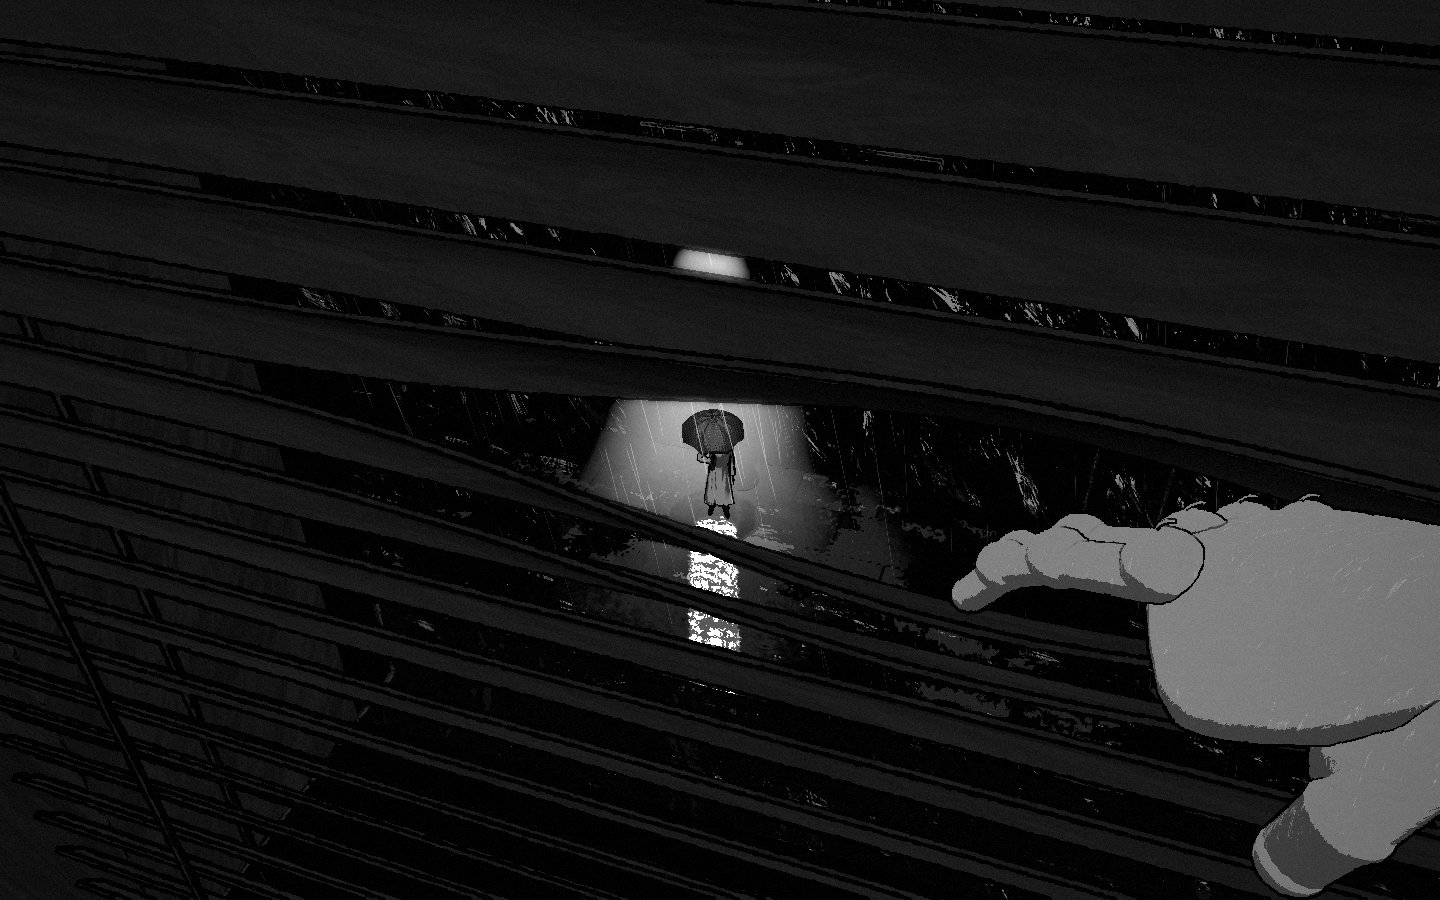
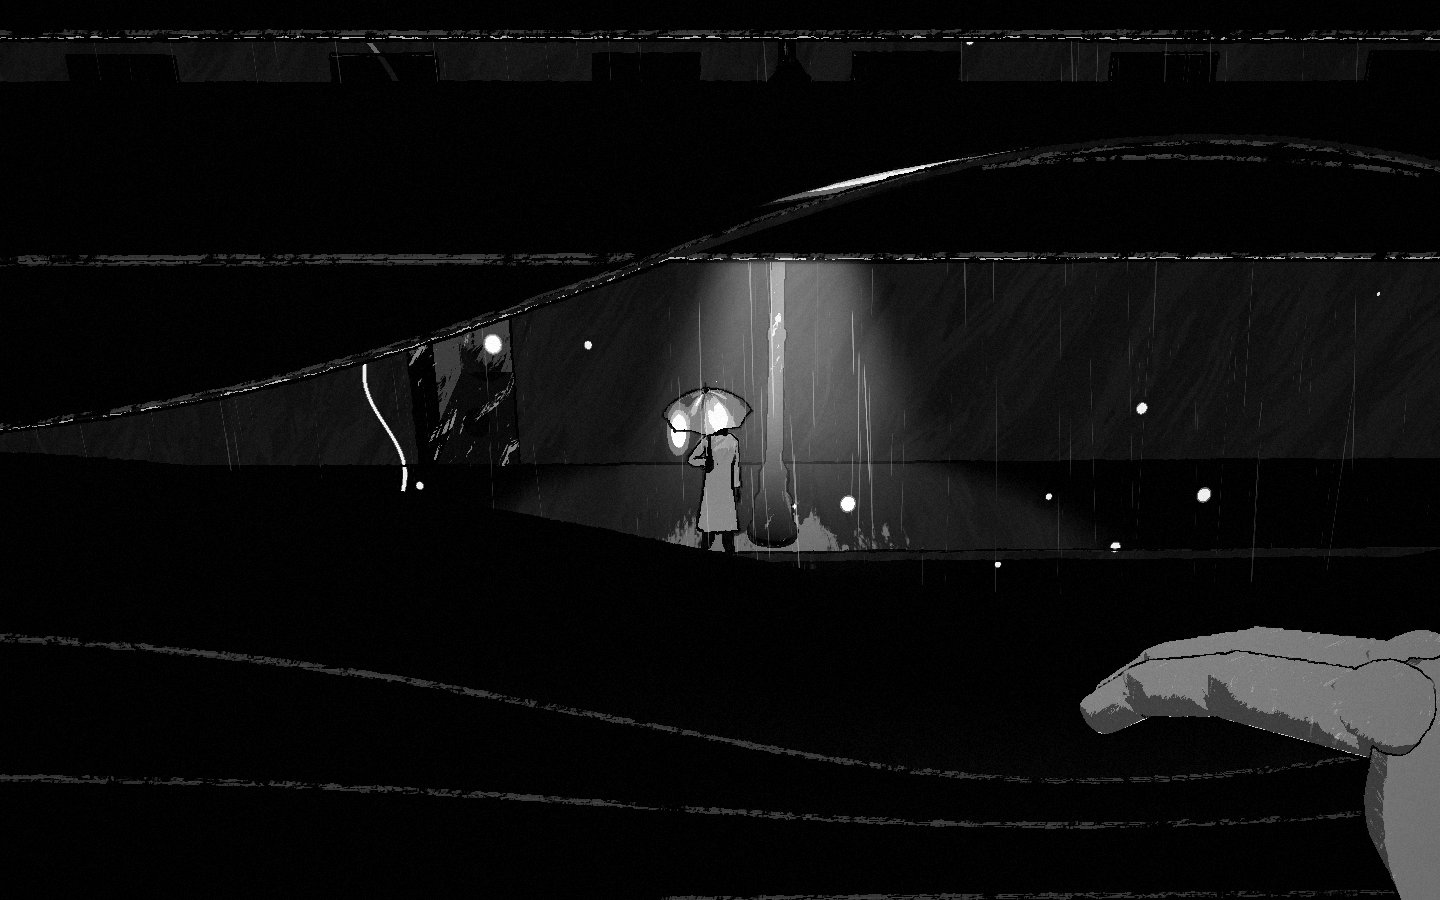
R2-C watcher: the round 2 report and the refreshed review frames (the slit in the office, out under the sash, the washing at night and his shadow on it, my coupe at the kerb, the two office strips)

diff --git a/docs/story/reports/wave-b/B4.md b/docs/story/reports/wave-b/B4.md
@@ -238,3 +238,177 @@ frames at three quarters, JPEG 85):
   hands to the rail, over, gone; `s4_the_car_pulls_away.jpg` 0.8-6.4 s: the
   lamps on, out from the kerb, away down the street, the look drawn after
   it and back to my car.
+
+---------------------------------------------------------------------------
+
+# Round 2 (lane R2-C, branch `wave-b/R2-watcher` on `089632f`)
+
+The brief: `docs/story/briefs/R2_ROUND2.md` R2-C. Not pushed, not merged.
+
+## The lost second pass
+
+`B4_second_pass_uncommitted.patch` applied whole and committed as it was
+saved (`855abf2`), then judged by play and frames: all three of its changes
+are kept.
+- **Out through the window bent under its raised sash**, both palms on the
+  sill (the escape mode's `duck` segment, `plan.js` ESC_RAIL[1]). It is now
+  the second half of the way out of B2's office (below).
+- **My car's door handle** and a hand closed over it (`clips/watcher.js`
+  `DOOR.out`, the `OVER` grip): kept, on the coupe now (below).
+- **The draw of the look on the car beat lets go** at the first turn of the
+  mouse: kept.
+
+## What changed, as a player feels it
+
+1. **The slit in the real office** (`seen`). Before: the eye stood 0.5 m
+   from B2's blind looking at shut slats, two slats "parted" as whole 1.7 m
+   strips a few cm apart, nothing seen through them (round 1's frame `01`
+   was the stand-in); and the man under the lamp stood at the third floor's
+   height over the road (the office stage has no walking surface in its
+   street: a figure's feet went to y 0). Now the office is entered in the
+   beat's setup (the first frame after the card is it; a cold start finds
+   the room as the gunfight left it: the desk over, the door in), the street
+   under the window is a surface (`officeStreet`, outside the building's
+   face only), and two fingers part B2's own blind: while they do, three of
+   its slats are drawn by bendable copies (same material, ink id, place and
+   tilt; B2's instances hidden by its own `set(i, { gone })` and given back
+   after), with the stand-in blind's API, so the hand's clip and the beat's
+   script are the same code for both blinds (`src/scenes/watcher/office.js`).
+   The slit is between two ladder tapes; the eye leans to it on the line to
+   him (0.32 m off it, the lens to 38 degrees). He looks up from under his
+   lamp and umbrella, starts, the umbrella goes along the pavement in the
+   wind, and he runs: off the far pavement, over the road at a slant toward
+   me and into the light well's mouth under the fire escape (out of the slit
+   in about 1.3 s; the slats are held till he is). The "look out" prompt
+   waits for the chapter card to go (it printed over it).
+2. **Out of the office** (`seen` -> `escape`). Before: a one-second glide to
+   the escape window, then black and a cut. Now E: the head turns (0.35 s),
+   the body crosses the room round the desk's end (footfalls on the boards),
+   the curtain over the window is swept aside to its far side as I come to
+   it (a swish), I bend to the sill - both palms slapped on it - and go under
+   the raised sash; there the sash's rail and the wall are over the lens,
+   and on that black (0.1 s) the scene cuts to the backlot's same window
+   with the eye still under its sash (the patch's duck, mid-way), the black
+   lifting in 0.3 s as I come up onto the iron. The step out onto the landing
+   goes on by itself (the E began it: escape mode `autoTo`); out on the iron
+   the look is drawn down to him crossing the street below for the alley's
+   mouth, until the mouse or W takes it.
+3. **The washing yard at night.** Before (frame 05 of round 1): a grey
+   courtyard, the brick lit by the sky's ambient and by the flood's wide
+   cone, the sheets mid grey. Now the yard has its own Look (ambient 0.12,
+   exposure 1.05, thin dark fog, some haze; eased in over the corner from the
+   lane), the flood behind the washing is its one light (narrower, harder:
+   angle 0.36, a harder shadow edge for it alone - the pool's soft radius 5
+   kept for every other lamp), the wall lamp at the yard's far end is a
+   glow, not a light, and the sheets are paler cloth: they are the lit
+   shapes, the brick falls into ink round them, the wet ground takes the
+   light under them.
+4. **His shadow on the washing, every time** (B4's open 3). From the second
+   fence to the last line of washing he tires and the sheets are in his
+   face: he lets me close to five or six metres (a burst if I come within
+   3.5), so as I come through one line he is just through the next and his
+   shadow - bowler, a hand on it - is on the lit sheet in front of me (frame
+   05). A retry of the washing starts him 10 m ahead, not 15.
+5. **My car is the tail's car.** Before: one of the block's sedans at the
+   kerb in the dark between two pools, the tail then opening inside a coupe.
+   Now it is lane B5's coupe (`vehicles/models.js` `buildCoupe`, parked
+   dark, a chrome handle on its kerb-side door), under a street lamp of its
+   own (the eye is drawn to it after his tail lamps), and E drive: the hand
+   closes on the handle, the click, and on it the chapter's black while the
+   eye ducks toward the car's side; the tail opens in that car's seat.
+
+## What I measured
+
+- **The plays, by real input.** `tools/plays/watcher.json` from
+  `?start=watcher` (now through the office): **17 of 17 twice in a row**
+  (and once more earlier on `0eda6c6`); it now measures the gap through the
+  washing: 6.2 / 5.8 / 5.6 m and 6.0 / 5.8 / 5.7 m as I come in and with
+  lines 1 and 2 behind me. `watcher_lost.json`: **10 of 10**, twice; one run
+  of three at load 175 lost him a second time at the second fence, not
+  reproduced. Both plays now click BEGIN a second time 6 s after the first:
+  on this machine (load 60-175) a click that lands while the page is busy
+  lets its user activation lapse and the pointer lock is refused ("click
+  again to take the mouse"); three runs stood at the title before that.
+- **Timings** (game time): the slit open 0.6 s after E; he runs 2.45 s after
+  it and is out of the slit 1.3 s later; E the fire escape -> the head turned
+  0.35 s, at the window 0.92 s, palms on the sill ~1.2 s, the cut at ~1.45 s,
+  the black gone 0.3 s later, out on the iron ~0.5 s after that; E drive ->
+  the hand on the handle 0.35 s, the chapter's fade from 0.55 s.
+- **Frames per second**, 1440 x 900, against `shot=perf` run just before and
+  after (load 135, every run flagged BUSY; perf 11.1 and 10.6): the yard 20.5
+  (1.9 x perf), the fire escape 15.9 (1.5 x), the slit in the office 27.6
+  (2.5 x), the car beat with my coupe and its lamp 19.3 (1.8 x).
+- **The gate.** `npm run build` clean. `python3 tools/golden.py check`: 32 of
+  32 IDENTICAL. `tools/errors.sh` clean on `seen`, `escape`, `run`, `car`,
+  and `seen` played through both E's into the backlot. The slice play: 26 of
+  27, twice; the one fail both times is scene 2's fist fight by the
+  autoplayer taking 183 s and 227 s of game time against the check's 160
+  (the machine at load 60-175; nothing of scene 6 is in scenes 1 and 2, and
+  the slice's ending check passes).
+
+## Shared files
+
+None edited. Read-only imports: the office's `plan.js` and `BLIND`
+(`stages/office/build/openings.js`), B5's `buildCoupe` / `COUPE`
+(`vehicles/models.js`). At run time the scene adds a walking surface for the
+office's street (outside the building's face only; the fire escape's and the
+room's surfaces keep their say), swaps three of B2's slats for its bendable
+copies while they are parted, and scales B2's escape-window curtain aside
+while the eye goes through (put back on the black).
+`src/player/clips/watcher.js` (B4's, now among the hand clips lane R2-B
+owns): only the patch's door grip changed - R2-B's reworking of the slat
+fingers will meet it in that file.
+
+## Music
+
+Slot `chase`, cued when his umbrella drops: 2.4 s of card, the prompt, the
+slit - 5 to 8 s into the scene for a first-timer. The scripted play is 50-62
+s from BEGIN to the tail's card; a first-timer: 65 to 80 s (one "Lost him."
+adds about ten).
+
+## Left (most felt first)
+
+1. **The office's first frame is near black**: the blind a step ahead, a
+   few slivers of the street, the lamp across the street two smudges. The
+   room's light is lane R2-A's relight; look at this beat again when it
+   lands (`office.window.street`; my slit is at z 4.46, the eye 0.92 m back
+   from the blind).
+2. **The hands are lane R2-B's**: at the slit a large flat mitten, on the
+   sill two grey palms, on the car's handle a small hand. My code only puts
+   them on the slat, the sill and the handle.
+3. **B2's curtain at the escape window** is a glowing white cloth: it fills
+   half the frame as I come to the window and is swept aside by a scale on
+   its mesh with no hand on it (it reads as a white slab jumping aside); an
+   arm pushing it would be right.
+4. **The glass's rain** (white wavy rivulets) runs through the slit's view
+   of him: the office's window glass (R2-A).
+5. After the cut, the first second on the iron looks east across the alley
+   at the wall before the look is drawn down to him.
+6. **The yard's upper walls** still print dark grey with the ink's white
+   scratches (B4 open 8) and the sky strip is grey; a sheet swung up
+   overhead as I go through prints mid grey. His shadow is crisp only with
+   him within about 2 m behind the sheet; further it is a soft blob.
+7. **My coupe has no door that opens**: the eye ducks toward its side into
+   the black. It is B5's model by import: a change to the coupe (lane R2-D)
+   shows here too.
+8. B4's open 4 (the dead end's way out a slit of street light, the wet
+   prints unseen), 6 (the passage lamps' ovals), 8 (the scratches) are as
+   they were; the length (open 2) is within the brief now (above), with no
+   new stretch.
+9. Review frames 03, 04, 07, 08, 09 and strips s1, s2 are round 1's (those
+   moments did not change); `02_escape_down_the_iron`, `s3_his_vault`,
+   `s4_the_car_pulls_away` and `10_car_the_tail_lamps` were replaced by the
+   frames below.
+
+## Proof (round 2)
+
+`docs/story/review/wave-b/B4/`: `01_seen_the_slit.jpg` (B2's blind parted,
+him under his lamp and umbrella), `02_out_under_the_sash.jpg` (both palms on
+the escape window's sill, the iron outside),
+`05_run_his_shadow_on_the_washing.jpg`, `06_run_through_the_washing.jpg` (a
+line of washing swinging up over me, his shadow on the next),
+`10_car_my_coupe_at_the_kerb.jpg`; `s3_the_slit_in_the_office.jpg`
+(2.55-7.15 s: the hand up, the slit, him, the umbrella goes, his run out of
+the slit, the slats let go), `s4_out_of_the_office.jpg` (7.65-9.85 s after
+the second E at 7.6: the head turns, the curtain, the sill, the cut, up on
+the iron, the look drawn to him).
